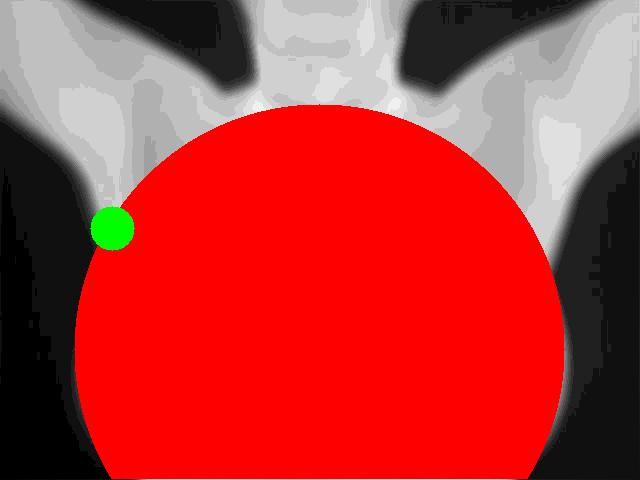
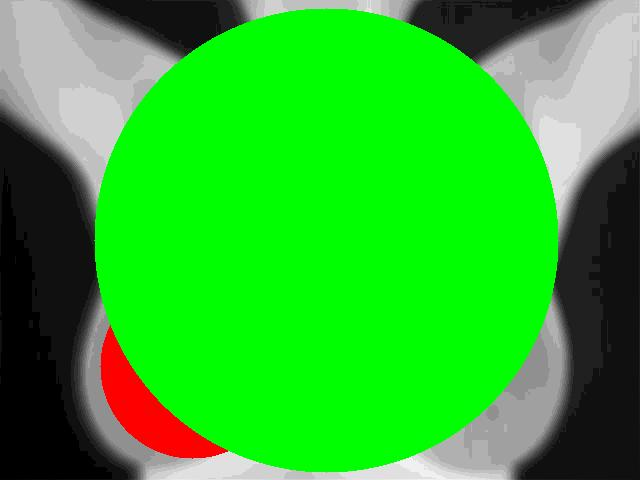
salvando antes de mexer com a cardioide

diff --git a/src/GATIS/Individual.java b/src/GATIS/Individual.java
@@ -37,9 +37,7 @@ public class Individual implements Comparable<Object>{
 		y=(int)(r.nextFloat()*img.getHeight());
 		rr=(int)(r.nextFloat()*img.getWidth()*1/2);
 		
-		//System.out.println("Raio 2 : "+rr);
 		c2 = new Circle(x,y,rr);
-		//System.out.print("raio no c : "+c2.getRadius());
 		fitness(img);
 
 	}
@@ -78,12 +76,6 @@ public class Individual implements Comparable<Object>{
 				int ww = -275;
 				int wt = bw+sw+hw+ww;
 				
-				int bwR =  250;
-				int swR = -20;
-				int hwR = -10;
-				int wwR =  275;
-				int wtR = bwR+swR+hwR+wwR;
-				
 				int interw;		
 				int[] vol = new int[4];
 				
@@ -104,7 +96,7 @@ public class Individual implements Comparable<Object>{
 				
 				int totalC = (bw*b+sw*s+hw*h+ww*w+interw*inter);
 				
-				score = (totalC)/Math.abs(wt+wtR+interw);	
+				score = (totalC)/Math.abs(wt+interw);	
 		
 	}
 	

diff --git a/src/GATIS/GA.java b/src/GATIS/GA.java
@@ -10,8 +10,8 @@ import image.Image;
 public class GA {
 	//CONSTANTS
 	final int decimalArraySize = 10;
-	final static int POP = 50;
-	final int GEN = 50;
+	final static int POP = 30;
+	final int GEN = 40;
 	final float mR = 0.02f;
 	final float cR = 0.7f;
 	//ATTRIBUTES
